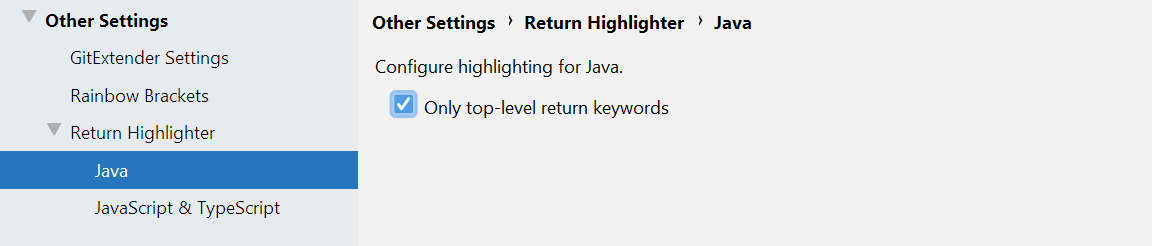
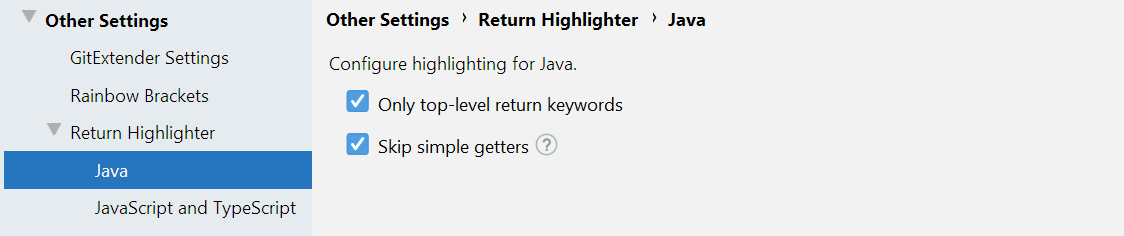
chore: update readme to cover all features

diff --git a/README.md b/README.md
@@ -56,20 +56,29 @@ You'll find a _Return Highlighter_ section, with all available languages listed.
 You can disable or customize how the return keyword is highlighted, to stand out more, via  
 **Settings > Editor > Color Scheme > Return Highlighter**
 
-To reset values to the default ones, check **Inherit values from** (not shown here).
+To reset values to the default ones, check **Inherit values from**.
 
-<img width="845" height="424" src="https://raw.githubusercontent.com/lppedd/idea-return-highlighter/master/images/style.png" alt="Style">
+<img width="845" height="516" src="https://raw.githubusercontent.com/lppedd/idea-return-highlighter/master/images/style.png" alt="Style">
 
 ### Limit the scope of the plugin
 
-Certain languages offer features like _lambda expressions_ (Java) or _function expressions_ (JavaScript).  
-This means potentially you can have nested functions, and thus nested `return` statements.
+- Certain languages offer features like _lambda expressions_ (Java) or _function expressions_ (JavaScript).
+  This means potentially you can have nested functions, and thus nested `return` statements.
 
-To highlight only top-level `return` keywords, depending on the language, look under  
-**Settings > Return Highlighter > *[language]***  
-And check **Only top-level return keywords**.
+  To highlight only top-level `return` keywords, depending on the language, look under  
+  **Settings > Return Highlighter > *[language]***  
+  and check **Only top-level return keywords**.
 
-<img width="845" height="185" src="https://raw.githubusercontent.com/lppedd/idea-return-highlighter/master/images/scope.png" alt="Scope">
+- Highlighting `return` statements in simple functions/methods can be annoying.  
+  Thus it is possible to disable it for such elements.
+
+  To skip `return` keywords inside simple getters, look under  
+  **Settings > Return Highlighter > *[language]***  
+  and check **Skip simple getters**.
+  
+  A _tooltip_ is there to show examples of simple getters, per language.
+
+<img width="845" height="177" src="https://raw.githubusercontent.com/lppedd/idea-return-highlighter/master/images/scope.png" alt="Scope">
 
 -----
 
